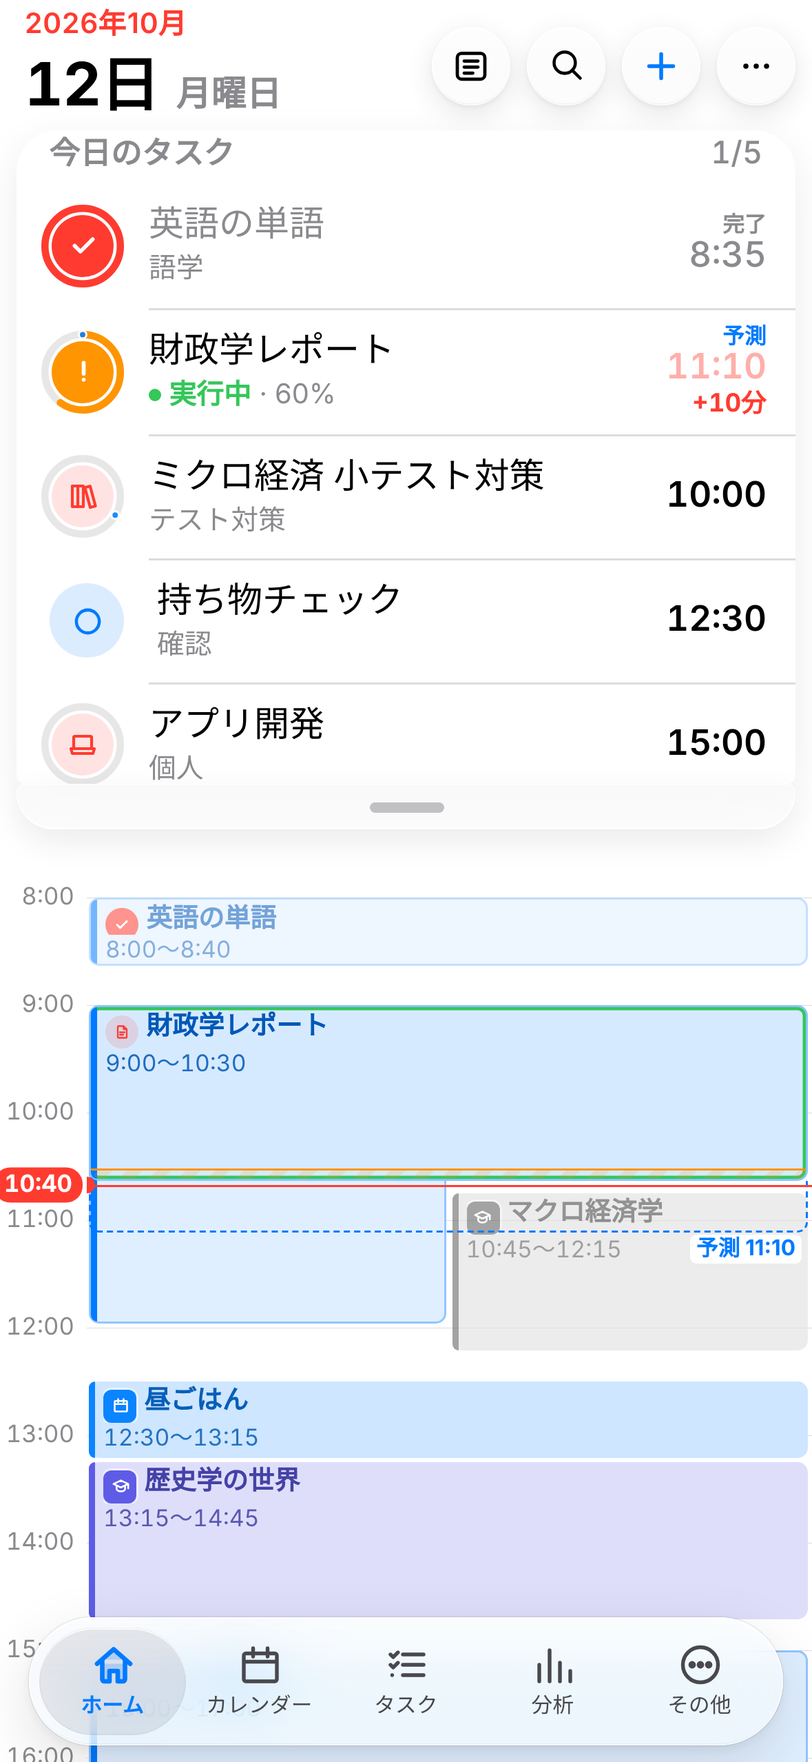
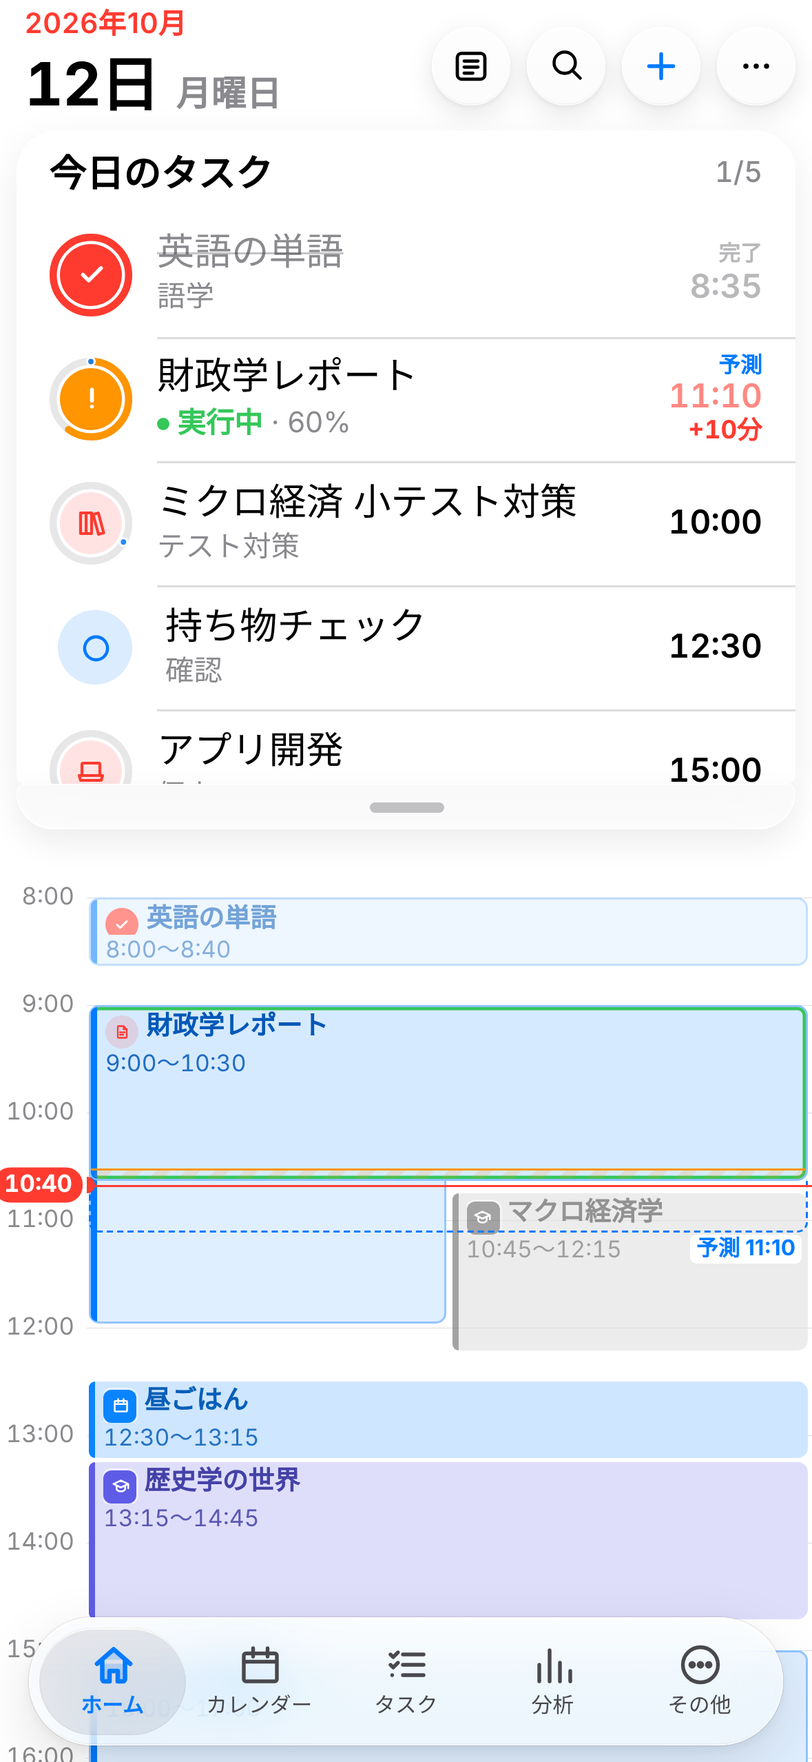
v3 S5（分析）: 予定と実績の比較、中断の推移、カテゴリー別、曜日×時間帯、カテゴリー・タグの絞り込み、文字の階層
Claude-Session: https://claude.ai/code/session_01QcLHSGtVW3U8EMN2URVGqm

diff --git a/apps/web/src/features/analysis/AnalysisScreen.tsx b/apps/web/src/features/analysis/AnalysisScreen.tsx
@@ -6,7 +6,8 @@ import { useNow } from '../../app/useNow';
 import { Icon } from '../../components/Icon';
 import { repo } from '../../data/repo';
 import { Popup } from '../../ui/Popup';
-import { ComboChart, MiniBars } from './charts';
+import { CategoryBars, ComboChart, Heatmap, MiniBars, PairBars } from './charts';
+import { ChoicePopup } from '../editor/inputs';
 
 const PERIODS: [AnalysisPeriod, string][] = [['day', '日'], ['week', '週'], ['month', '月'], ['year', '年']];
 const PREV_LABEL: Record<AnalysisPeriod, string> = { day: '前日', week: '前の週', month: '前の月', year: '前の年' };
@@ -48,7 +49,7 @@ function Delta({ now, prev, kind, lowerIsBetter }: { now: number | null; prev: n
  * 目標は設定したときだけリングで表示。対象は時刻指定された実施タスク（予定・授業は含まない）。
  */
 export function AnalysisScreen() {
-  const { tasks, settings } = useData();
+  const { tasks, settings, categories } = useData();
   const { openSheet } = useUIActions();
   const now = useNow(30_000);
   const [period, setPeriod] = useState<AnalysisPeriod>('day');
@@ -57,8 +58,15 @@ export function AnalysisScreen() {
   const range = periodRange(period, anchor);
   const prevRange = shiftPeriod(range, -1);
   const opts = { includePaused: settings.analysisIncludePaused, includeAuto: settings.analysisIncludeAuto };
-  const st = useMemo(() => periodStats(tasks, range, now, opts), [tasks, range.from, range.period, now, opts.includePaused, opts.includeAuto]); // eslint-disable-line react-hooks/exhaustive-deps
-  const pv = useMemo(() => periodStats(tasks, prevRange, now, opts), [tasks, prevRange.from, prevRange.period, now, opts.includePaused, opts.includeAuto]); // eslint-disable-line react-hooks/exhaustive-deps
+  // カテゴリー・タグの絞り込みは全指標に同じ条件で適用（C31）。複数タグのタスクも task.id で1件
+  const [filter, setFilter] = useState<{ kind: 'category' | 'tag'; value: string } | null>(null);
+  const [filterPick, setFilterPick] = useState(false);
+  const scoped = useMemo(() => (filter ? tasks.filter((t) => (filter.kind === 'category' ? (t.category ?? '') === filter.value : t.tags.includes(filter.value))) : tasks), [tasks, filter]);
+  const st = useMemo(() => periodStats(scoped, range, now, opts), [scoped, range.from, range.period, now, opts.includePaused, opts.includeAuto]); // eslint-disable-line react-hooks/exhaustive-deps
+  const pv = useMemo(() => periodStats(scoped, prevRange, now, opts), [scoped, prevRange.from, prevRange.period, now, opts.includePaused, opts.includeAuto]); // eslint-disable-line react-hooks/exhaustive-deps
+  const catColor = (c: string | null) => categories.find((x) => x.name === c)?.color ?? 'var(--gray)';
+  const tagList = useMemo(() => [...new Set(tasks.flatMap((t) => t.tags))].sort((a, b) => a.localeCompare(b, 'ja')), [tasks]);
+  const catList = useMemo(() => [...new Set([...categories.map((c) => c.name), ...tasks.map((t) => t.category).filter((c): c is string => !!c)])], [tasks, categories]);
   const isCurrent = now >= range.from && now < range.to;
   const goalMs = workGoalMs(settings.goalWeeklyMinutes, range);
   const goalRate = settings.goalCompletionRate != null ? settings.goalCompletionRate / 100 : null;
@@ -72,7 +80,10 @@ export function AnalysisScreen() {
       <header className="nav large">
         <div className="nav-row">
           <h1 className="large-title">分析</h1>
-          <button type="button" className="gbtn glass glass-i tint" aria-label="目標" onClick={() => setGoals(true)} data-testid="analysis-goals"><Icon name="target" size={20} /></button>
+          <span className="nav-actions gap">
+            <button type="button" className={`gbtn glass glass-i ${filter ? 'tint' : ''}`} aria-label={filter ? `絞り込み：${filter.kind === 'tag' ? '#' : ''}${filter.value || 'カテゴリーなし'}` : 'カテゴリー・タグで絞り込む'} onClick={() => setFilterPick(true)} data-testid="analysis-filter"><Icon name="tray" size={19} /></button>
+            <button type="button" className="gbtn glass glass-i tint" aria-label="目標" onClick={() => setGoals(true)} data-testid="analysis-goals"><Icon name="target" size={20} /></button>
+          </span>
         </div>
         <div className="seg-full" role="tablist" aria-label="期間">
           {PERIODS.map(([p, l]) => <button key={p} type="button" role="tab" aria-selected={period === p} onClick={() => setPeriod(p)} data-testid={`period-${p}`}>{l}</button>)}
@@ -83,6 +94,9 @@ export function AnalysisScreen() {
           <button type="button" className="icon-btn" aria-label="次の期間" onClick={() => go(1)} data-testid="next-period"><Icon name="chevronRight" size={20} /></button>
         </div>
       </header>
+      {filter && (
+        <div className="filter-bar"><span className="chip">{filter.kind === 'tag' ? `#${filter.value}` : filter.value || 'カテゴリーなし'}のみ<button type="button" aria-label="絞り込みを解除" onClick={() => setFilter(null)} data-testid="analysis-filter-clear"><Icon name="close" size={12} strokeWidth={2.6} /></button></span></div>
+      )}
       <div
         className="scroll-body"
         onPointerDown={(e) => { if (!(e.target as Element).closest('svg, button')) swipe.current = { x: e.clientX, y: e.clientY }; }}
@@ -147,6 +161,27 @@ export function AnalysisScreen() {
               <ComboChart testId="analysis-chart" barLabel="実行時間" lineLabel="完了率" points={st.buckets.map((b) => ({ label: b.label, bar: b.workedMs, barText: formatDuration(b.workedMs), line: b.completionRate, lineText: b.completionRate == null ? '—' : `${pct(b.completionRate)}%` }))} highlight={isCurrent ? st.buckets.findIndex((b, i) => now >= b.from && (st.buckets[i + 1]?.from ?? range.to) > now) : undefined} />
             </div>
 
+            <h2 className="section-title">予定と実績</h2>
+            <div className="tile wide chart-card">
+              <PairBars testId="plan-vs-actual" items={st.buckets.map((b) => ({ label: b.label, a: b.plannedMs, b: b.workedMs }))} />
+              <p className="analysis-note tight">予定時間は予定開始・終了が両方あるタスクだけ。実行時間は実際に作業した時間帯へ振り分けます。</p>
+            </div>
+            <h2 className="section-title">中断の推移</h2>
+            <div className="tile wide chart-card">
+              <ComboChart testId="interruptions-chart" barLabel="中断" points={st.buckets.map((b) => ({ label: b.label, bar: b.interruptions, barText: `${b.interruptions}回`, line: null }))} height={110} />
+            </div>
+            {st.byCategory.length > 0 && (
+              <>
+                <h2 className="section-title">カテゴリー別</h2>
+                <div className="tile wide"><CategoryBars rows={st.byCategory} colorOf={catColor} onPick={(c) => setFilter({ kind: 'category', value: c ?? '' })} /></div>
+              </>
+            )}
+            {st.workedMs > 0 && period !== 'day' && (
+              <>
+                <h2 className="section-title">曜日×時間帯</h2>
+                <div className="tile wide"><Heatmap heat={st.heat} testId="heatmap" /></div>
+              </>
+            )}
             {st.workedMs > 0 && (
               <>
                 <h2 className="section-title">よく取り組む曜日と時間帯</h2>
@@ -161,9 +196,13 @@ export function AnalysisScreen() {
         <p className="analysis-note">
           {PREV_LABEL[period]}と比べています。授業・アルバイトなどの予定は集計しません。複数日にまたがるタスクは予定開始の日に1回だけ数え、実行時間は実際に作業した時間帯に振り分けます。
           {st.excluded > 0 && ` この期間は一時停止・自動開始/終了のタスク${st.excluded}件を除外しています（「その他」で含められます）。`}
+          {st.untimed > 0 && ` 予定の時刻がない未完了の実行タスク${st.untimed}件は、件数の集計に含まれません。`}
         </p>
       </div>
       <GoalsPopup open={goals} onClose={() => setGoals(false)} />
+      <ChoicePopup open={filterPick} title="絞り込み" noneLabel="すべてのタスク" value={filter ? `${filter.kind}:${filter.value}` : ''} onClose={() => setFilterPick(false)} testId="analysis-filter-popup"
+        onPick={(v) => { setFilterPick(false); if (!v) return setFilter(null); const i = v.indexOf(':'); setFilter({ kind: v.slice(0, i) as 'category' | 'tag', value: v.slice(i + 1) }); }}
+        items={[...catList.map((c) => ({ value: `category:${c}`, label: c, sub: 'カテゴリー', badge: <span className="choice-dot" style={{ background: catColor(c) }} /> })), { value: 'category:', label: 'カテゴリーなし', sub: 'カテゴリー' }, ...tagList.map((t) => ({ value: `tag:${t}`, label: `#${t}`, sub: 'タグ' }))]} />
     </div>
   );
 }

diff --git a/apps/web/src/features/analysis/charts.tsx b/apps/web/src/features/analysis/charts.tsx
@@ -83,3 +83,66 @@ export function MiniBars({ values, labels, testId, title }: { values: number[]; 
     </div>
   );
 }
+
+/** 予定と実績を並べた棒（C31 ③）。予定は枠線のみ、実績は塗り。色だけでなく線種と凡例で区別 */
+export function PairBars({ items, testId }: { items: { label: string; a: number; b: number }[]; testId?: string }) {
+  const [sel, setSel] = useState<number | null>(null);
+  const [table, setTable] = useState(false);
+  const max = Math.max(1, ...items.flatMap((i) => [i.a, i.b]));
+  const every = items.length > 14 ? Math.ceil(items.length / 7) : 1;
+  const s = sel != null ? items[sel] : null;
+  return (
+    <div className="chart" data-testid={testId}>
+      <div className="chart-tip" aria-live="polite">
+        {s ? <><b>{s.label}</b><span className="chart-key plan">予定 {formatDuration(s.a)}</span><span className="chart-key bar">実績 {formatDuration(s.b)}</span></> : <><span className="chart-key plan">予定時間</span><span className="chart-key bar">実行時間</span></>}
+      </div>
+      <div className="pairbars" role="img" aria-label={`予定と実績の比較。予定合計 ${formatDuration(items.reduce((x, i) => x + i.a, 0))}、実績合計 ${formatDuration(items.reduce((x, i) => x + i.b, 0))}`} style={{ gridTemplateColumns: `repeat(${items.length}, 1fr)` }}>
+        {items.map((it, i) => (
+          <button key={i} type="button" className={`pb-col ${sel === i ? 'on' : ''}`} onClick={() => setSel(sel === i ? null : i)} aria-label={`${it.label} 予定${formatDuration(it.a)} 実績${formatDuration(it.b)}`}>
+            <span className="pb-bars"><span className="pb-plan" style={{ height: `${(it.a / max) * 100}%` }} /><span className="pb-act" style={{ height: `${(it.b / max) * 100}%` }} /></span>
+            <span className="pb-label">{i % every === 0 ? it.label : ''}</span>
+          </button>
+        ))}
+      </div>
+      <button type="button" className="link-btn small" aria-expanded={table} onClick={() => setTable(!table)}>{table ? '表を閉じる' : '表で見る'}</button>
+      {table && <table className="chart-table"><thead><tr><th scope="col">区切り</th><th scope="col">予定</th><th scope="col">実績</th></tr></thead><tbody>{items.map((it, i) => <tr key={i}><th scope="row">{it.label}</th><td>{formatDuration(it.a)}</td><td>{formatDuration(it.b)}</td></tr>)}</tbody></table>}
+    </div>
+  );
+}
+
+const WDJ = ['日', '月', '火', '水', '木', '金', '土'];
+/** 曜日×時間帯のヒートマップ（C31 ⑤）。濃さと数値（タップで表示）で示す */
+export function Heatmap({ heat, testId }: { heat: number[][]; testId?: string }) {
+  const [sel, setSel] = useState<[number, number] | null>(null);
+  const max = Math.max(1, ...heat.flat());
+  return (
+    <div className="heat" data-testid={testId}>
+      <div className="chart-tip" aria-live="polite">{sel ? <><b>{WDJ[sel[0]]}曜 {sel[1] * 3}〜{sel[1] * 3 + 3}時</b><span>{formatDuration(heat[sel[0]]![sel[1]]!)}</span></> : <span className="muted">マスをタップすると時間を表示します</span>}</div>
+      <div className="heat-grid" role="table" aria-label="曜日と時間帯ごとの実行時間">
+        <span className="heat-corner" aria-hidden />
+        {[0, 3, 6, 9, 12, 15, 18, 21].map((h) => <span key={h} className="heat-h" aria-hidden>{h}</span>)}
+        {heat.map((row, d) => (
+          <div key={d} className="heat-row" role="row">
+            <span className="heat-d" role="rowheader">{WDJ[d]}</span>
+            {row.map((v, i) => <button key={i} type="button" role="cell" className={`heat-cell ${sel && sel[0] === d && sel[1] === i ? 'on' : ''}`} style={{ ['--a' as string]: v ? 0.12 + 0.88 * (v / max) : 0 }} aria-label={`${WDJ[d]}曜 ${i * 3}時から ${formatDuration(v)}`} onClick={() => setSel([d, i])} />)}
+          </div>
+        ))}
+      </div>
+    </div>
+  );
+}
+
+/** カテゴリー別の実行時間と完了件数（C31 ④） */
+export function CategoryBars({ rows, colorOf, onPick }: { rows: { category: string | null; workedMs: number; done: number; total: number }[]; colorOf: (c: string | null) => string; onPick?: (c: string | null) => void }) {
+  const max = Math.max(1, ...rows.map((r) => r.workedMs));
+  return (
+    <div className="catbars" data-testid="by-category">
+      {rows.map((r) => (
+        <button key={r.category ?? '__none'} type="button" className="catbar" onClick={() => onPick?.(r.category)}>
+          <span className="catbar-head"><span className="catbar-name"><span className="dot" style={{ background: colorOf(r.category) }} aria-hidden />{r.category ?? 'カテゴリーなし'}</span><span className="catbar-val">{formatDuration(r.workedMs)} · 完了 {r.done}/{r.total}</span></span>
+          <span className="catbar-track"><span className="catbar-fill" style={{ width: `${(r.workedMs / max) * 100}%`, background: colorOf(r.category) }} /></span>
+        </button>
+      ))}
+    </div>
+  );
+}

diff --git a/packages/domain/src/analysis.ts b/packages/domain/src/analysis.ts
@@ -141,7 +141,13 @@ export interface PeriodStats {
   excluded: number;
   byWeekday: number[];
   byHour: number[];
-  buckets: { from: EpochMs; label: string; workedMs: number; total: number; done: number; completionRate: number | null }[];
+  buckets: { from: EpochMs; label: string; workedMs: number; total: number; done: number; completionRate: number | null; plannedMs: number; interruptions: number }[];
+  /** 曜日（0=日）×時間帯（3時間ごと8区分）の実行時間（C31 ヒートマップ） */
+  heat: number[][];
+  /** カテゴリー別の実行時間と完了件数（カテゴリーなしは null） */
+  byCategory: { category: string | null; workedMs: number; done: number; total: number }[];
+  /** 予定時刻が未設定などで対象外だったタスク数 */
+  untimed: number;
   /** 期間内に予定されていたタスク（詳細表示用） */
   taskIds: string[];
 }
@@ -175,6 +181,8 @@ export function periodStats(tasks: readonly Task[], r: PeriodRange, now: EpochMs
   }
   const byWeekday = Array<number>(7).fill(0);
   const byHour = Array<number>(24).fill(0);
+  const heat = Array.from({ length: 7 }, () => Array<number>(8).fill(0));
+  const catW = new Map<string | null, number>();
   let worked = 0;
   for (const t of working) {
     for (const iv of t.intervals) {
@@ -187,6 +195,8 @@ export function periodStats(tasks: readonly Task[], r: PeriodRange, now: EpochMs
         const next = Math.min(e, s + (HOUR - ((w.mi * MINUTE + w.s * 1000 + w.ms) % HOUR)));
         byWeekday[w.wd]! += next - s;
         byHour[w.h]! += next - s;
+        heat[w.wd]![Math.floor(w.h / 3)]! += next - s;
+        catW.set(t.category ?? null, (catW.get(t.category ?? null) ?? 0) + (next - s));
         s = next;
       }
     }
@@ -194,8 +204,14 @@ export function periodStats(tasks: readonly Task[], r: PeriodRange, now: EpochMs
   const buckets = periodBuckets(r).map((b) => {
     const ts = eligible.filter((t) => { const a = anchorOf(t)!; return a >= b.from && a < b.to; });
     const d = ts.filter((t) => t.status === 'done').length;
-    return { from: b.from, label: b.label, workedMs: working.reduce((s, t) => s + workedInRange(t, b.from, b.to, now), 0), total: ts.length, done: d, completionRate: ts.length ? d / ts.length : null };
+    const plannedMs = ts.reduce((s, t) => s + (t.plannedStart != null && t.plannedEnd != null ? Math.max(0, t.plannedEnd - t.plannedStart) : 0), 0);
+    return { from: b.from, label: b.label, workedMs: working.reduce((s, t) => s + workedInRange(t, b.from, b.to, now), 0), total: ts.length, done: d, completionRate: ts.length ? d / ts.length : null, plannedMs, interruptions: ts.reduce((s, t) => s + Math.max(0, t.intervals.length - 1), 0) };
   });
+  const cats = new Map<string | null, { workedMs: number; done: number; total: number }>();
+  for (const [c, w] of catW) cats.set(c, { workedMs: w, done: 0, total: 0 });
+  for (const t of eligible) { const c = cats.get(t.category ?? null) ?? { workedMs: 0, done: 0, total: 0 }; c.total++; if (t.status === 'done') c.done++; cats.set(t.category ?? null, c); }
+  const byCategory = [...cats.entries()].map(([category, v]) => ({ category, ...v })).sort((a, b) => b.workedMs - a.workedMs || b.total - a.total);
+  const untimed = tasks.filter((t) => t.kind === 'do' && t.plannedStart == null && t.status !== 'done' && ok(t)).length;
   return {
     total: eligible.length,
     done: done.length,
@@ -211,6 +227,9 @@ export function periodStats(tasks: readonly Task[], r: PeriodRange, now: EpochMs
     byWeekday,
     byHour,
     buckets,
+    heat,
+    byCategory,
+    untimed,
     taskIds: eligible.map((t) => t.id),
   };
 }

diff --git a/apps/web/src/styles/glass.css b/apps/web/src/styles/glass.css
@@ -277,3 +277,37 @@ button.tile:active { transform: scale(0.98); }
 .group-dot { width: 26px; height: 26px; border-radius: 8px; display: grid; place-items: center; background: var(--fill-strong); color: var(--label-2); }
 .sub-title { display: flex; flex-direction: column; min-width: 0; }
 @media (min-width: 560px) { .smart-lists { grid-template-columns: repeat(3, minmax(0, 1fr)); } .smart-card.wide { grid-column: auto; min-height: 76px; grid-template-columns: auto 1fr; grid-template-rows: auto auto; } .smart-card.wide .smart-label { grid-column: 1 / -1; grid-row: 2; } .smart-card.wide .smart-count { grid-column: 2; grid-row: 1; } }
+.tasks-top { padding: 0 0 4px; }
+.chart-key.plan::before { background: transparent; box-shadow: inset 0 0 0 1.5px var(--label-2); }
+.pairbars { display: grid; gap: 4px; height: 140px; align-items: end; }
+.pb-col { display: flex; flex-direction: column; align-items: center; justify-content: flex-end; gap: 4px; height: 100%; min-width: 0; }
+.pb-bars { flex: 1; width: 100%; display: flex; align-items: flex-end; justify-content: center; gap: 2px; }
+.pb-plan, .pb-act { width: min(40%, 12px); border-radius: 3px 3px 0 0; min-height: 0; }
+.pb-plan { box-shadow: inset 0 0 0 1.5px var(--label-2); }
+.pb-act { background: var(--blue); }
+.pb-col.on .pb-act { background: var(--indigo); }
+.pb-label { font-size: 0.64rem; color: var(--label-2); white-space: nowrap; height: 1em; }
+.heat-grid { display: grid; grid-template-columns: 22px repeat(8, 1fr); gap: 3px; align-items: center; }
+.heat-row { display: contents; }
+.heat-h, .heat-d { font-size: 0.66rem; color: var(--label-2); text-align: center; font-variant-numeric: tabular-nums; }
+.heat-cell { aspect-ratio: 1.4; border-radius: 5px; background: color-mix(in srgb, var(--blue) calc(var(--a) * 100%), var(--fill)); min-height: 18px; }
+.heat-cell.on { outline: 2px solid var(--label); outline-offset: 1px; }
+.catbars { display: flex; flex-direction: column; gap: 12px; }
+.catbar { display: flex; flex-direction: column; gap: 6px; text-align: left; color: var(--label); }
+.catbar-head { display: flex; justify-content: space-between; gap: 8px; font-size: 0.9rem; }
+.catbar-name { display: inline-flex; align-items: center; gap: 6px; font-weight: 600; min-width: 0; overflow: hidden; text-overflow: ellipsis; white-space: nowrap; }
+.catbar-name .dot { width: 9px; height: 9px; border-radius: 50%; flex: none; }
+.catbar-val { color: var(--label-2); font-size: 0.8rem; font-variant-numeric: tabular-nums; white-space: nowrap; }
+.catbar-track { height: 8px; border-radius: 4px; background: var(--fill); overflow: hidden; }
+.catbar-fill { display: block; height: 100%; border-radius: 4px; }
+/* 分析の文字の階層（C31）：見出し17px・主要値28〜34px・単位15px・説明13px */
+.analysis .section-title { font-size: 1.0625rem; font-weight: 700; margin: 22px 4px 8px; }
+.analysis .tile-value { font-size: 2rem; font-weight: 700; letter-spacing: -0.01em; }
+.analysis .tile-value.small { font-size: 1.75rem; }
+.analysis .tile-value small { font-size: 0.9375rem; font-weight: 600; }
+.analysis .tile-sub { font-size: 0.8125rem; }
+.analysis .tile-label { font-size: 0.9375rem; font-weight: 600; }
+.filter-chips { display: flex; gap: 6px; flex-wrap: wrap; margin: 6px 0 0; }
+.filter-bar { padding: 0 16px 6px; }
+.choice-dot { width: 14px; height: 14px; border-radius: 50%; margin: 0 7px; flex: none; }
+.analysis-note.tight { margin: 6px 0 0; }

diff --git a/apps/web/src/features/tasks/TasksScreen.tsx b/apps/web/src/features/tasks/TasksScreen.tsx
@@ -238,6 +238,10 @@ export function TasksScreen() {
             <button type="button" className="gbtn glass glass-i tint" aria-label="新規タスク" onClick={() => openSheet({ kind: 'edit', mode: 'task', defaults: kind === 'check' ? { kind: 'check' } : {} })} data-testid="tasks-add"><Icon name="plus" size={20} strokeWidth={2.2} /></button>
           </div>
         </div>
+      </header>
+      <div className="scroll-body" ref={listRef}>
+        {/* スマートリスト・種類・グループは一覧と一緒にスクロール（一覧の表示域を狭めない） */}
+        <div className="tasks-top">
         {/* スマートリスト（C29）：今日・近日・すべて・フラグ・完了の件数カード */}
         <div className="smart-lists" role="group" aria-label="表示するタスク">
           {(['today', 'upcoming', 'all', 'flagged', 'done'] as TaskScope[]).map((sc) => (
@@ -263,8 +267,7 @@ export function TasksScreen() {
           <button type="button" className="tool-chip" onClick={() => setGroupPick(true)} data-testid="tasks-group">グループ：{GROUP_LABEL[group]}<Icon name="chevronDown" size={13} strokeWidth={2.4} /></button>
           {sort !== 'due' && <span className="chip">{SORT_LABEL[sort]}<button type="button" aria-label="並び順を期限順に戻す" onClick={() => setPref({ taskSort: 'due' })}><Icon name="close" size={12} strokeWidth={2.6} /></button></span>}
         </div>
-      </header>
-      <div className="scroll-body" ref={listRef}>
+        </div>
         {editing && sort === 'manual' ? (
           <section className="task-section"><h2 className="section-title">並び替え</h2><div className="rows card">{take(sections.flat).map((t) => row(t))}</div></section>
         ) : (

diff --git a/packages/domain/src/analysis-period.test.ts b/packages/domain/src/analysis-period.test.ts
@@ -43,3 +43,17 @@ describe('複数の通知（v2）', () => {
     expect(planNotices([t], [e], [], start - 1440 * MINUTE, 5 * MINUTE)[0]?.body).toContain('1日後');
   });
 });
+
+describe('分析の追加指標（v3 C31）', () => {
+  it('予定時間・中断・カテゴリー別・ヒートマップの合計が実行時間と一致し、二重計上しない', () => {
+    const now = fromWall(2026, 10, 10);
+    const a = makeTask({ title: 'A', kind: 'do', category: 'ゼミ', plannedStart: fromWall(2026, 10, 2, 9), plannedEnd: fromWall(2026, 10, 2, 11), status: 'done', actualEnd: fromWall(2026, 10, 2, 11), intervals: [{ start: fromWall(2026, 10, 2, 9), end: fromWall(2026, 10, 2, 10) }, { start: fromWall(2026, 10, 2, 10, 30), end: fromWall(2026, 10, 2, 11) }] }, now);
+    const b = makeTask({ title: 'B', kind: 'do', plannedStart: fromWall(2026, 10, 3, 14), plannedEnd: fromWall(2026, 10, 3, 15), intervals: [{ start: fromWall(2026, 10, 3, 14), end: fromWall(2026, 10, 3, 15) }] }, now);
+    const st = periodStats([a, b], periodRange('week', fromWall(2026, 10, 2)), now);
+    expect(st.buckets.reduce((s, x) => s + x.plannedMs, 0)).toBe(3 * HOUR);
+    expect(st.buckets.reduce((s, x) => s + x.interruptions, 0)).toBe(1);
+    expect(st.heat.flat().reduce((s, x) => s + x, 0)).toBe(st.workedMs);
+    expect(st.byCategory.reduce((s, x) => s + x.workedMs, 0)).toBe(st.workedMs);
+    expect(st.byCategory.find((c) => c.category === 'ゼミ')).toMatchObject({ done: 1, total: 1 });
+  });
+});
